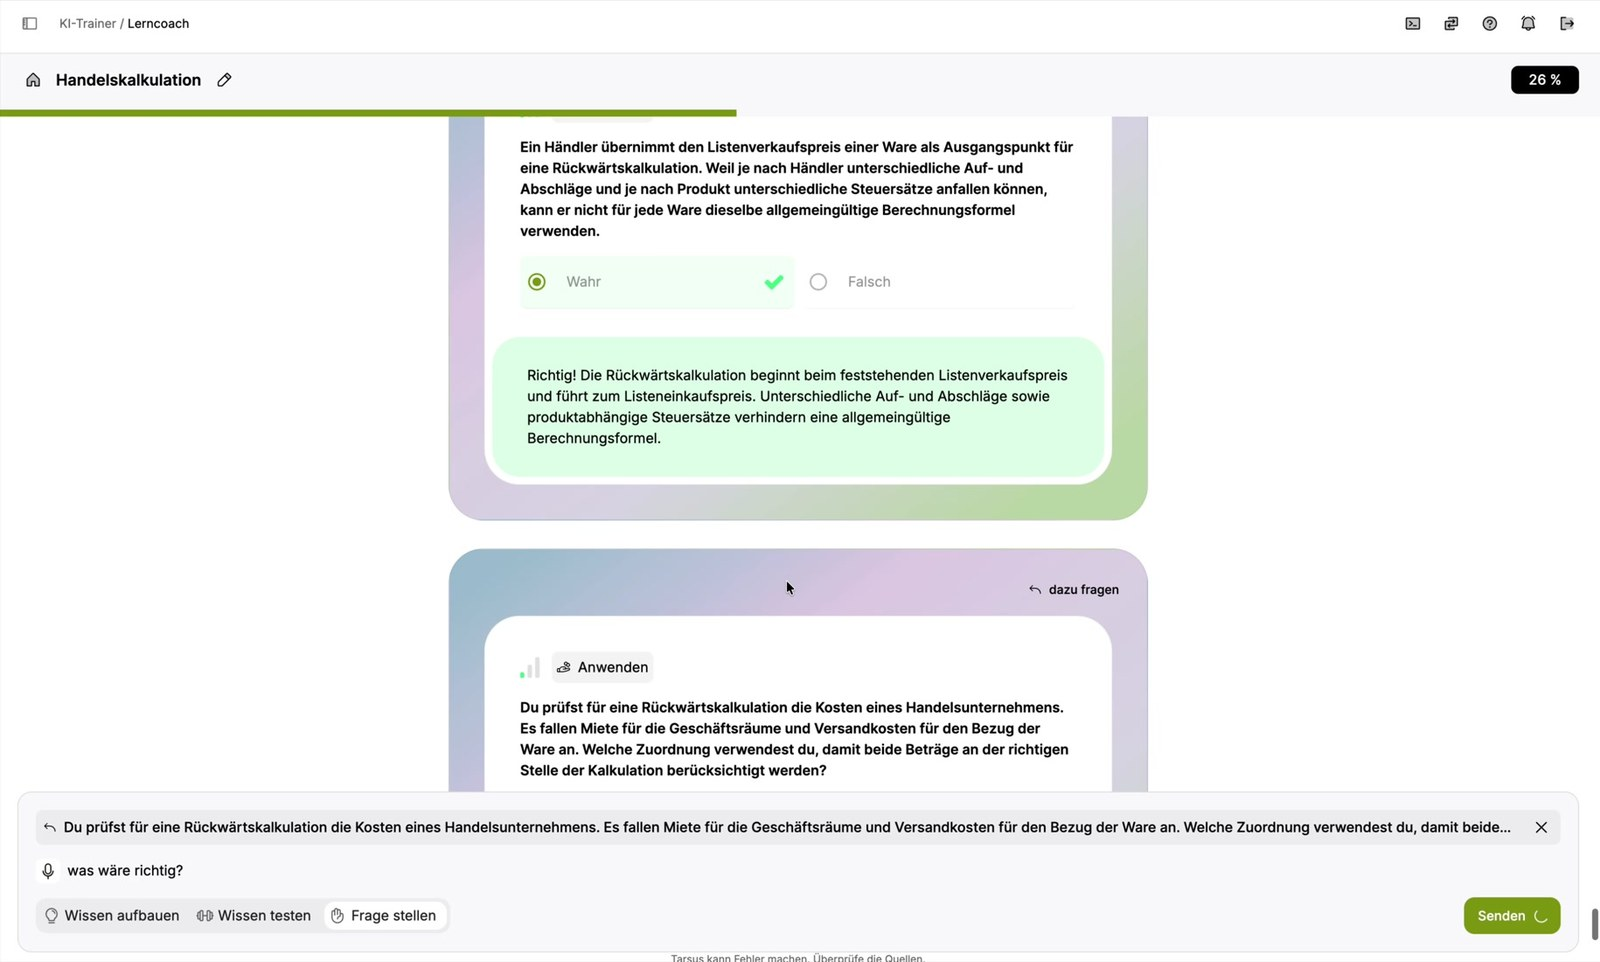
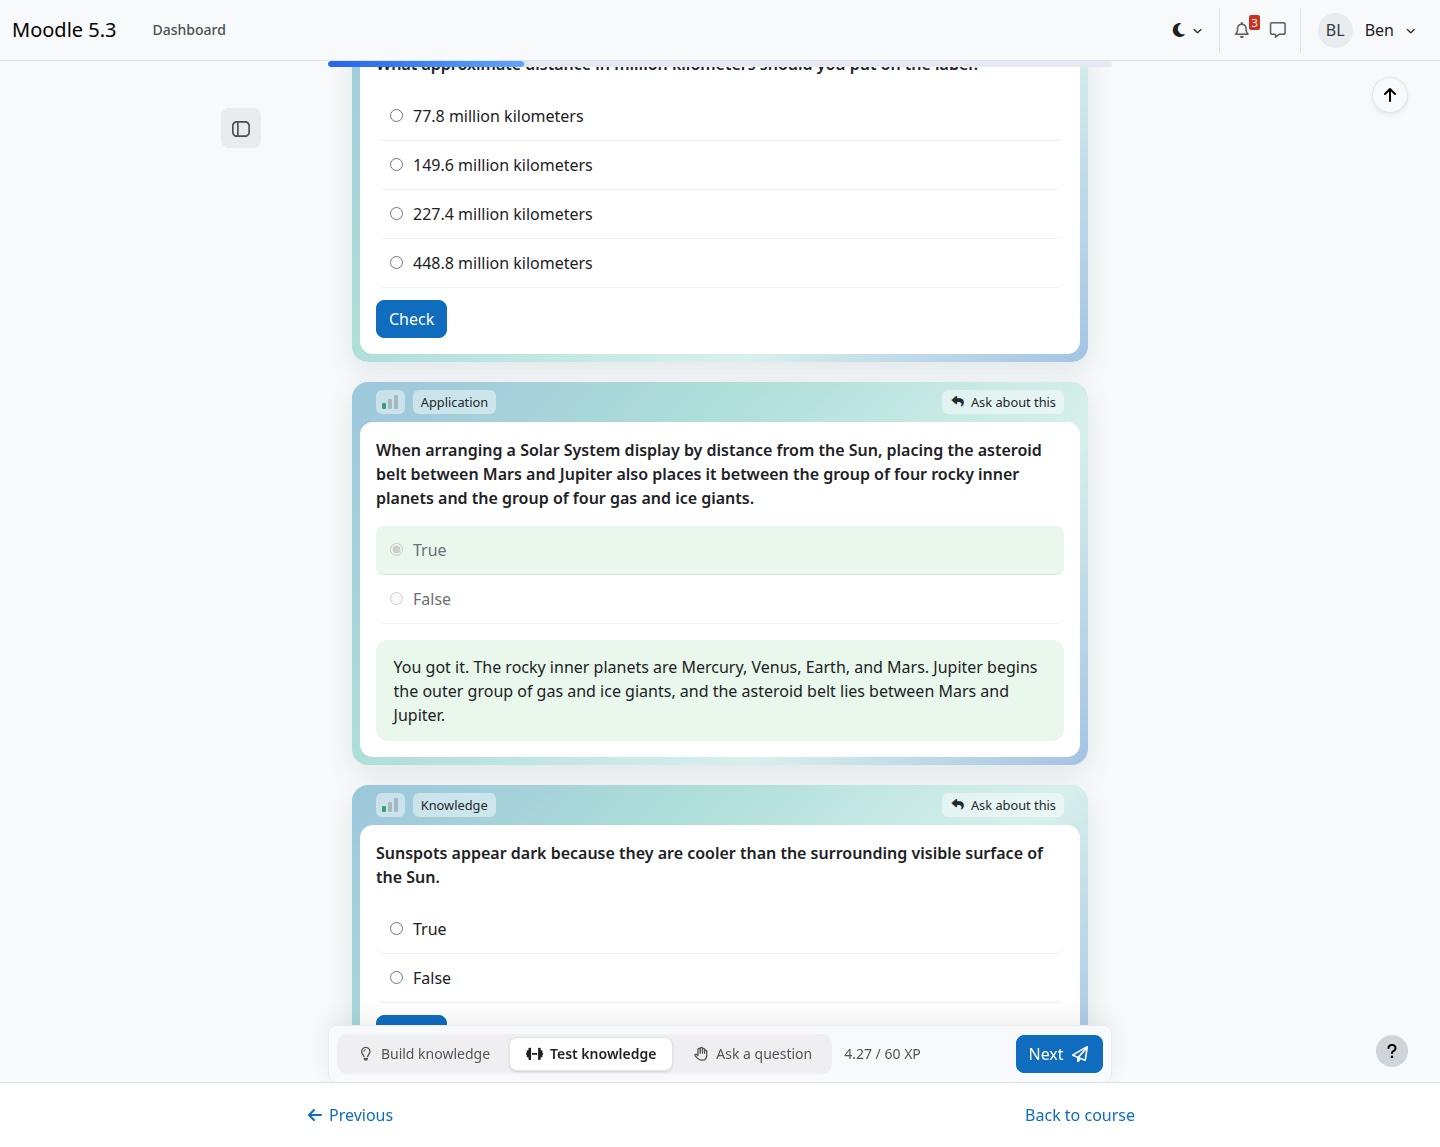
README: screenshots from the plugin itself, facts aligned with the code
- The learner screenshots showed the Tarsus web app and were captioned as
  a Moodle course. They are replaced by eight screenshots taken in the
  plugin on Moodle 5.3 with a live brain: objectives, a learning unit with
  narration, true/false, single choice, an open question with partial
  credit, questions about a task, and two agent-driven interactive cards.
  The product visuals at the top are labelled as such.
- Removed what the plugin does not offer: voice input and asking about a
  marked passage.
- Reset chat history erases the current user's own conversation only.
- The API key is not shown to teachers or learners (an administrator sees
  it on the settings page).
- Capability table matches db/access.php; the badge names the tested
  Moodle versions; the screenshot count is right.

diff --git a/README.md b/README.md
@@ -10,7 +10,7 @@
 </p>
 
 <p align="center">
-  <img alt="Moodle 5.0 or later" src="https://img.shields.io/badge/Moodle-5.0%20%7C%205.2%20%7C%205.3-f98012">
+  <img alt="Tested on Moodle 5.2 and 5.3" src="https://img.shields.io/badge/Moodle-5.2%20%7C%205.3-f98012">
   <img alt="PHP 8.2 or later" src="https://img.shields.io/badge/PHP-8.2%2B-777bb4">
   <img alt="Plugin type: activity module" src="https://img.shields.io/badge/plugin-mod__tarsus-0077be">
   <img alt="Licence GPL-3.0-or-later" src="https://img.shields.io/badge/licence-GPL--3.0--or--later-39ff14">
@@ -32,18 +32,20 @@
 
 The activity builds on the connector plugin **[local_tarsus](https://github.com/lernlink/moodle-local_tarsus)**, which holds the credentials, indexes the course material and guards every outbound call. Both plugins are free and open source; Tarsus itself is billed by usage.
 
-> **No secrets in this repository.** There are **no API keys and no brain IDs** in the code, the history or the screenshots. The credentials for a real brain are entered once by an administrator in the connector's site settings; they are stored in the Moodle database and never sent to a browser. Without them the plugins run in **mock mode** with simulated answers, so you can explore every screen before you [request access](#getting-access).
+> **No secrets in this repository.** There are **no API keys and no brain IDs** in the code, the history or the screenshots. The credentials for a real brain are entered once by an administrator in the connector's site settings; they are stored in the Moodle database and are never shown to teachers or learners. Without them the plugins run in **mock mode** with simulated answers, so you can explore every screen before you [request access](#getting-access).
 
 **Contents** · [What the coach does](#what-the-coach-does) · [Inside Moodle](#inside-moodle) · [Watch](#watch) · [Getting access](#getting-access) · [The plugin set](#the-plugin-set) · [Requirements](#requirements) · [Installation](#installation) · [First steps in a course](#first-steps-in-a-course) · [Configuration](#configuration) · [Interaction types](#interaction-types) · [Grades, completion and progress](#grades-completion-and-progress) · [Capabilities](#capabilities) · [Data and privacy](#data-and-privacy) · [Development](#development) · [Credits](#credits) · [Licence](#licence)
 
 ## What the coach does
+
+The pictures in this section are Tarsus product visuals and show the coach in the Tarsus web app. The Moodle activity offers the same three modes in Moodle's own look; see [Inside Moodle](#inside-moodle) for screenshots of the plugin itself.
 
 ### Three ways to learn
 
 | Build knowledge | Test knowledge | Ask a question |
 |:--:|:--:|:--:|
 | <img src="https://framerusercontent.com/images/s0fmuHNzzQzugFWdZ64BNRzBZVE.webp" alt="Explanation card built from the course material" width="400"> | <img src="https://framerusercontent.com/images/hgagwUKE5rL19zOgU4zCXHDL8wk.webp" alt="Spreadsheet task with line-by-line feedback" width="400"> | <img src="https://framerusercontent.com/images/Gg6PdLZrXoksmnEkebq2iomzcCM.webp" alt="The coach answers a question and shows the calculation path" width="400"> |
-| Learning units with objectives, explanation cards and check questions, optionally read aloud. One idea at a time, with examples for the target group. | Tasks like in the exam: single choice, true/false, open questions, rule of three and spreadsheet calculations – with feedback that says what is still missing, experience points and a progress bar. | Questions in the learner's own words, by text or voice, answered from the included material only. Learners can also ask about any learning card or task ("Ask about this"). |
+| Learning units with objectives, explanation cards and check questions, optionally read aloud. One idea at a time, with examples for the target group. | Tasks like in the exam: single choice, true/false, open questions, rule of three and spreadsheet calculations – with feedback that says what is still missing, experience points and a progress bar. | Questions in the learner's own words, answered from the included material only. Learners can also ask about any learning card or task ("Ask about this"). |
 
 Teachers switch each mode on or off per activity; learners switch between the enabled modes at the bottom of the chat.
 
@@ -54,7 +56,7 @@ Teachers switch each mode on or off per activity; learners switch between the en
 | <img src="https://framerusercontent.com/images/Cosivt9X6HrNKgVnRe4uAuwSXI.webp" alt="Rotatable 3D cylinder with diameter and height" width="400"> | <img src="https://framerusercontent.com/images/uZ93hce6VN7ddmDdqNunRz8mg.webp" alt="Interactive characteristic curve: a slider moves the operating point" width="400"> | <img src="https://framerusercontent.com/images/XuhQqOxDZ7REyDl40HnvMnVjpms.webp" alt="Decision tree: what does the body orbit?" width="400"> |
 | **3D models** that learners can turn and measure. | **Simulations** where a slider changes the physics and the result follows. | **Diagrams and animations** drawn for the question at hand. |
 
-With the *Agent-driven* interaction type the coach answers inside Moodle with such interactive cards. See [Interaction types](#interaction-types).
+With the *Agent-driven* interaction type the coach answers inside Moodle with interactive cards of this kind. See [Interaction types](#interaction-types).
 
 ### Many task formats
 
@@ -69,21 +71,21 @@ The coach adapts to the **DQR level**, the **taxonomy stages** (knowledge, under
 
 ## Inside Moodle
 
-The learner side, recorded in a Moodle course (the coach speaks the learner's language – this course is in German):
+The learner side, taken in the plugin on Moodle 5.3 with a live Tarsus brain (course language English; the coach answers in the learner's language):
 
 <p align="center">
-  <img src="docs/screenshots/12_test_true_false.jpg" alt="Test knowledge in a Moodle course: a true-or-false task is checked and explained, the next task follows; at the bottom the learner asks the coach about the task" width="900">
+  <img src="docs/screenshots/14_test_open_question.jpg" alt="Test knowledge in Moodle: an open question is answered, scored with 55 % and the feedback says what is still missing; the mode switcher and the experience points sit at the bottom" width="900">
 </p>
 
-| Build knowledge | Ask about a task | Explain it simpler |
+| Build knowledge | Test knowledge | Ask about a task |
 |:--:|:--:|:--:|
-| <img src="docs/screenshots/10_build_learning_card_audio.jpg" alt="A learning card with narration playing and previous/next navigation" width="440"> | <img src="docs/screenshots/17_ask_about_a_task.jpg" alt="After a wrong answer the learner asks 'what would be right?' and the coach explains the correct assignment" width="440"> | <img src="docs/screenshots/19_ask_explain_simpler.jpg" alt="The learner asks for a simpler explanation and gets one with a small diagram" width="440"> |
-| Learning units card by card, read aloud on request. | "What would be right?" – the coach explains the correct answer to the task the learner was just working on. | Mark a passage, ask for a simpler version, get it – with a small diagram. |
+| <img src="docs/screenshots/11_build_learning_card_audio.jpg" alt="A learning unit below its objectives, with the narration player and previous/next navigation" width="440"> | <img src="docs/screenshots/13_test_single_choice.jpg" alt="A single-choice question, answered correctly, with its explanation" width="440"> | <img src="docs/screenshots/15_ask_about_a_task.jpg" alt="The learner asks what is still missing in an answer and then for a simpler explanation; the coach answers both" width="440"> |
+| Learning units card by card, read aloud on request. | Tasks with a verdict, an explanation and experience points. | "What is still missing in my answer?" and "Please explain it more simply." after a task. |
 
-| Interactive curve | Animated diagrams | 3D model |
+| Learning objectives | Interactive answer (Agent-driven) | Interactive learning step (Agent-driven) |
 |:--:|:--:|:--:|
-| <img src="docs/screenshots/20_ask_interactive_curve.jpg" alt="An interactive characteristic curve with a slider for the voltage at the operating point" width="440"> | <img src="docs/screenshots/21_ask_animated_diagrams.jpg" alt="Two animated diagrams explain diameter and height" width="440"> | <img src="docs/screenshots/22_ask_3d_model.jpg" alt="A rotatable 3D cylinder with diameter and height marked" width="440"> |
-| "Please make it interactive" – a slider moves the operating point. | "Please explain with graphics" – the coach draws them. | "I need a 3D animation" – a cylinder to turn with the mouse. |
+| <img src="docs/screenshots/10_build_objectives.jpg" alt="The learning objectives of a course with their taxonomy levels" width="440"> | <img src="docs/screenshots/16_agent_interactive_answer.jpg" alt="An agent-driven answer in the Moodle chat: an interactive card with a slider" width="440"> | <img src="docs/screenshots/17_agent_learning_step.jpg" alt="An agent-driven learning step in Build knowledge, rendered as an interactive card" width="440"> |
+| Build knowledge opens with the objectives the coach derived from the material. | "…as an interactive diagram with a slider" – the agent builds the card. | With *Agent-driven*, learning steps arrive as interactive cards too. |
 
 The teacher side – the material tab, the activity settings and the site-wide connection (shown in mock mode, so every field is a placeholder):
 
@@ -93,20 +95,18 @@ The teacher side – the material tab, the activity settings and the site-wide c
 | Every page, file and URL of the course with its state in the brain. Switch it on to let the coach use it. | Interaction type, DQR level, taxonomy levels, target group – and one section per mode. |
 
 <details>
-<summary><b>All screenshots</b> (23)</summary>
+<summary><b>All screenshots</b> (15)</summary>
 
 | | |
 |:--:|:--:|
 | <img src="docs/screenshots/01_course_page.png" alt="A Moodle course page with the Tarsus activity between the pages of a section" width="440"><br><sub>The activity on the course page</sub> | <img src="docs/screenshots/02_material_tab.png" alt="Material tab with indexed and included resources" width="440"><br><sub>Material tab (teacher)</sub> |
 | <img src="docs/screenshots/03_settings_general.png" alt="Activity settings: general and Ask a question" width="440"><br><sub>Settings: general, Ask a question</sub> | <img src="docs/screenshots/04_settings_test_build.png" alt="Activity settings: Test knowledge with question types per difficulty, learning pace, and Build knowledge" width="440"><br><sub>Settings: Test knowledge, Build knowledge</sub> |
 | <img src="docs/screenshots/05_admin_connection.png" alt="Site settings of the connector: API key, brain ID, base URL and the assistant's identity" width="440"><br><sub>Site settings: connection and assistant (mock values)</sub> | <img src="docs/screenshots/06_admin_guardrails.png" alt="Site settings of the connector: mock mode, kill switch, rate limit and credit budget" width="440"><br><sub>Site settings: guardrails (mock values)</sub> |
-| <img src="docs/screenshots/07_admin_brains.png" alt="The Tarsus brains page lists the brains the key can reach with their state" width="440"><br><sub>Tarsus brains page (mock values)</sub> | <img src="docs/screenshots/10_build_learning_card_audio.jpg" alt="Learning card with narration" width="440"><br><sub>Build knowledge: a card, read aloud</sub> |
-| <img src="docs/screenshots/11_build_next_card.jpg" alt="The next learning card" width="440"><br><sub>Build knowledge: the next card</sub> | <img src="docs/screenshots/12_test_true_false.jpg" alt="True or false" width="440"><br><sub>Test knowledge: true or false</sub> |
-| <img src="docs/screenshots/13_test_single_choice.jpg" alt="Single choice with explanation of the mistake" width="440"><br><sub>Test knowledge: single choice, with the mistake explained</sub> | <img src="docs/screenshots/14_test_open_question.jpg" alt="Open question with feedback on what is missing" width="440"><br><sub>Test knowledge: open question, with feedback on what is missing</sub> |
-| <img src="docs/screenshots/15_test_calculation.jpg" alt="Calculation task with two answer fields" width="440"><br><sub>Test knowledge: calculation with two answer fields</sub> | <img src="docs/screenshots/16_test_spreadsheet.jpg" alt="Spreadsheet calculation with line-by-line feedback" width="440"><br><sub>Test knowledge: spreadsheet calculation, checked line by line</sub> |
-| <img src="docs/screenshots/17_ask_about_a_task.jpg" alt="Ask about a task" width="440"><br><sub>Ask a question: about the task just answered</sub> | <img src="docs/screenshots/18_ask_search_status.jpg" alt="The coach relates the question to the marked passage and searches the indexed course material" width="440"><br><sub>Ask a question: the coach relates the question to the marked passage and searches the course</sub> |
-| <img src="docs/screenshots/19_ask_explain_simpler.jpg" alt="Explain it simpler" width="440"><br><sub>Ask a question: "explain it simpler"</sub> | <img src="docs/screenshots/20_ask_interactive_curve.jpg" alt="Interactive curve" width="440"><br><sub>Ask a question: interactive curve</sub> |
-| <img src="docs/screenshots/21_ask_animated_diagrams.jpg" alt="Animated diagrams" width="440"><br><sub>Ask a question: animated diagrams</sub> | <img src="docs/screenshots/22_ask_3d_model.jpg" alt="3D model" width="440"><br><sub>Ask a question: 3D model</sub> |
+| <img src="docs/screenshots/07_admin_brains.png" alt="The Tarsus brains page lists the brains the key can reach with their state" width="440"><br><sub>Tarsus brains page (mock values)</sub> | <img src="docs/screenshots/10_build_objectives.jpg" alt="Learning objectives with taxonomy levels" width="440"><br><sub>Build knowledge: the objectives</sub> |
+| <img src="docs/screenshots/11_build_learning_card_audio.jpg" alt="Learning unit with narration" width="440"><br><sub>Build knowledge: a unit, read aloud</sub> | <img src="docs/screenshots/12_test_true_false.jpg" alt="True or false, answered correctly" width="440"><br><sub>Test knowledge: true or false</sub> |
+| <img src="docs/screenshots/13_test_single_choice.jpg" alt="Single choice with explanation" width="440"><br><sub>Test knowledge: single choice</sub> | <img src="docs/screenshots/14_test_open_question.jpg" alt="Open question with partial credit and feedback on what is missing" width="440"><br><sub>Test knowledge: open question, with feedback on what is missing</sub> |
+| <img src="docs/screenshots/15_ask_about_a_task.jpg" alt="Questions about a task and a simpler explanation" width="440"><br><sub>Ask a question: about a task, then a simpler explanation</sub> | <img src="docs/screenshots/16_agent_interactive_answer.jpg" alt="Interactive card with a slider" width="440"><br><sub>Agent-driven: interactive answer</sub> |
+| <img src="docs/screenshots/17_agent_learning_step.jpg" alt="Interactive learning step" width="440"><br><sub>Agent-driven: interactive learning step</sub> |  |
 
 </details>
 
@@ -227,7 +227,7 @@ Replace the folder with the new version (or `git pull` in it) and visit *Site ad
 
 | Setting | Meaning |
 |---|---|
-| API key, Brain ID, Base URL | The connection. One brain per site; the key is stored site-wide and never sent to the browser. |
+| API key, Brain ID, Base URL | The connection. One brain per site; the key is stored site-wide and never shown to teachers or learners. |
 | Tarsus brains | A page listing every brain the key can reach, with its state, to pick the one the site uses. |
 | Assistant name, ID, description, avatar | How the assistant appears in the chat. |
 | Voice selection, Voice | The voice that reads learning units aloud: by the learner's language, or one fixed voice. |
@@ -258,7 +258,7 @@ At least one mode must be enabled, and every difficulty grade needs at least one
 
 ### Reset a learner's chat
 
-The *Reset chat history* tab (capability `mod/tarsus:resetchat`) clears one learner's conversation with the coach – for example after a demo or when a learner wants a fresh start.
+The *Reset chat history* tab (capability `mod/tarsus:resetchat`) erases the **current user's own** conversation with the coach, in the brain as well – for example after a teacher has tried the activity or given a demo. Nobody can erase another person's conversation, and learners cannot erase theirs at all, because the conversation carries their learning progress.
 
 ## Interaction types
 
@@ -280,10 +280,10 @@ Both types answer only from the included material.
 
 | Capability | Default roles |
 |---|---|
-| `mod/tarsus:view` | Everyone enrolled |
+| `mod/tarsus:view` | Student, teacher, editing teacher, manager |
 | `mod/tarsus:addinstance` | Editing teacher, manager |
 | `mod/tarsus:manage` | Editing teacher, manager |
-| `mod/tarsus:resetchat` | Editing teacher, manager |
+| `mod/tarsus:resetchat` | Teacher, editing teacher, manager |
 
 ## Data and privacy
 
